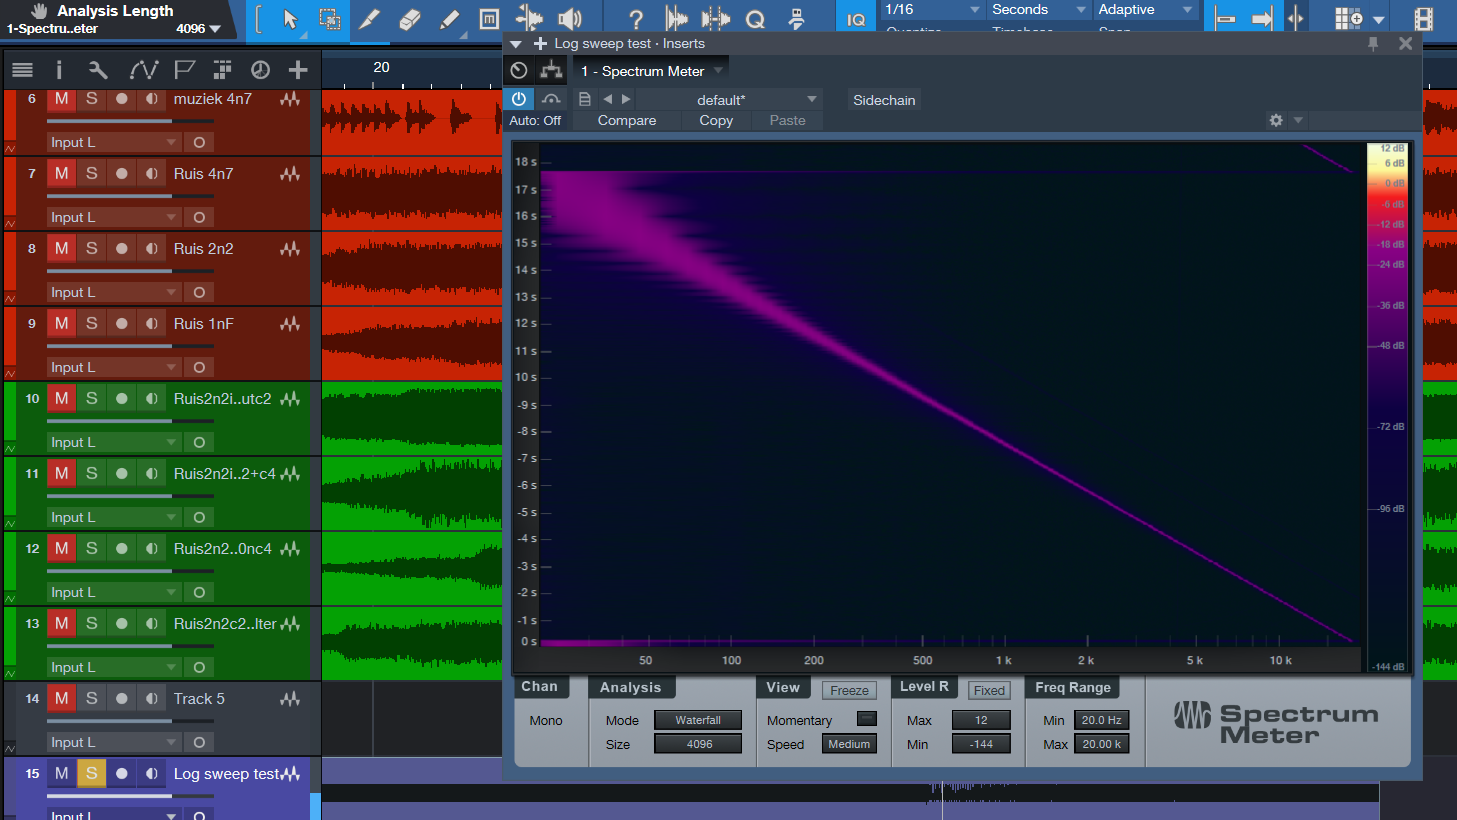
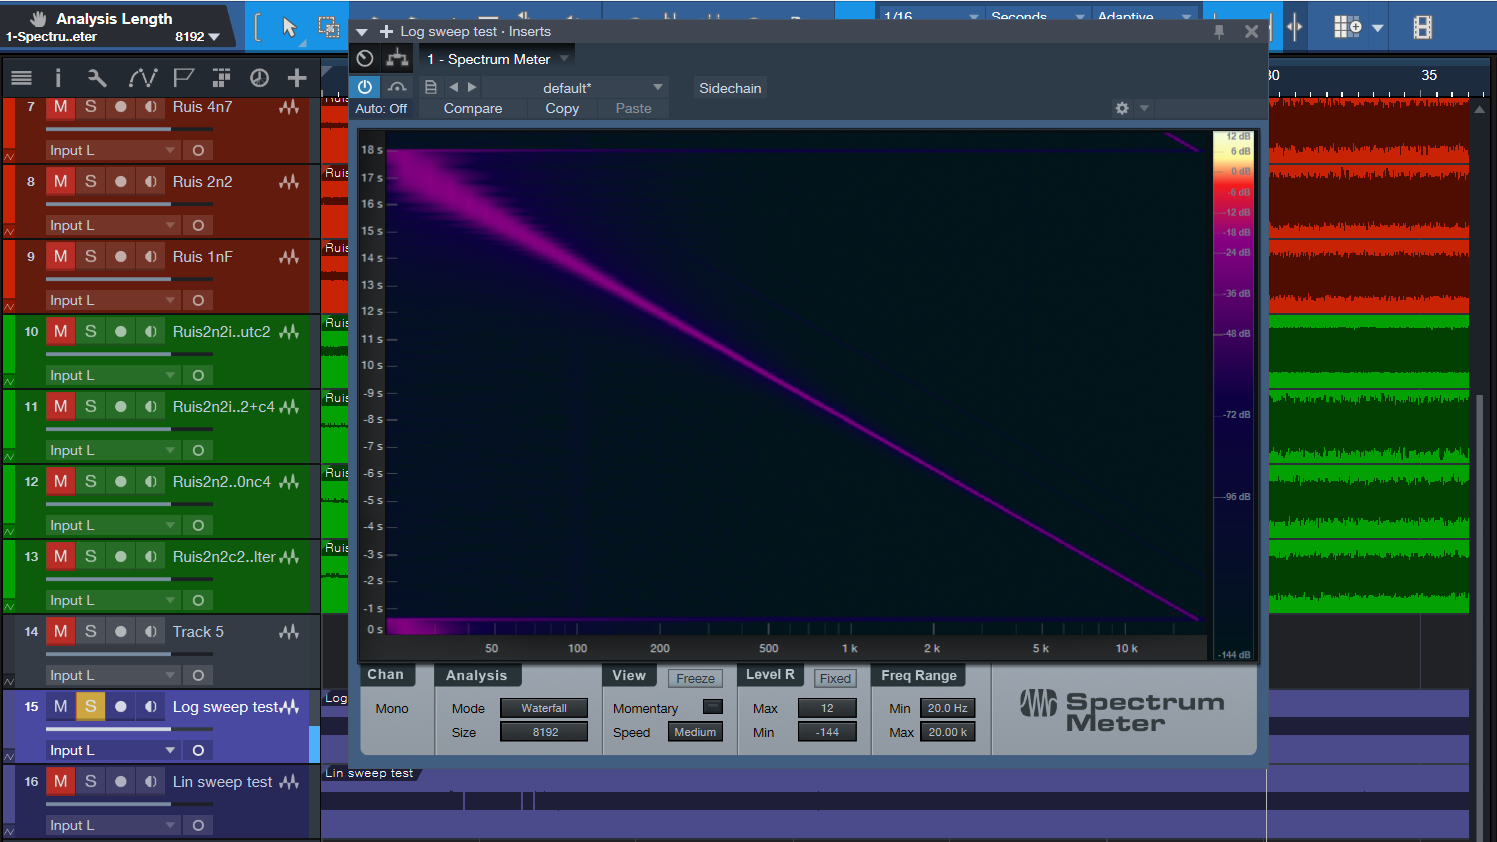
Added research results. Created research report in doc/LOG.md

diff --git a/doc/LOG.md b/doc/LOG.md
@@ -2,20 +2,82 @@
 
 ##### This is a logbook of the Hardware Analyzer project I'm doing for my Creative Systems Design class at the HKU.
 
+***
+
 ## Current Bugs
+
+***
 
 ## Fixed Bugs
 
+***
+
 ## Overview of subjects
+
+#### Markdown
+See all markdown tricks used in this file at [this GitHub page](https://github.com/adam-p/markdown-here/wiki/Markdown-Cheatsheet) or check the raw file.
 
 #### Make
 
+###### Implicit variables
+In the file makevariables.txt you can see the text printed on the command line when typed the following command: `make -p` when in a directory without a Makefile. This shows all the predefined variables make knows. Here is a list of variables that I use often.
+
+| Variable |  Explanation                                           |
+| ---------|--------------------------------------------------------|
+| CXX      | Program for compiling C++ programs; default ‘g++’.     |
+| CC       | Program for compiling C programs; default ‘cc’.        |
+| CXXFLAGS | Extra flags to give to the C++ compiler.               |
+| CFLAGS   | Extra flags to give to the C compiler.                 |
+| CPPFLAGS | Extra flags to give to the C preprocessor and programs that use it (the C and Fortran compilers) |
+| LDLIBS   | Library flags or names given to compilers when they are supposed to invoke the linker, ‘ld’. Non-library linker flags, such as -L, should go in the LDFLAGS variable. |
+| LDFLAGS  | Extra flags to give to compilers when they are supposed to invoke the linker, ‘ld’, such as -L. Libraries (-lfoo) should be added to the LDLIBS variable instead. |
+
+Make has many more of these Implicit rules as it can not only call the c compilers. For example: Fortran, Yacc, Lint, Pascal and many others.
+
 ###### Pattern rules
-https://www.gnu.org/software/make/manual/html_node/Pattern-Rules.html
+Reference: https://www.gnu.org/software/make/manual/html_node/Pattern-Rules.html
+
+Basic rule:
 ~~~
-TODO: write this out.
+target : list of prerequisites (dependencies)
+        recipe
+~~~
+before the recipe you need to put a tab not 8 spaces.
+
+Pattern rule:
+~~~
+%.o : %.cpp
+        $(CXX) -c $(CXXFLAGS) $(CPPFLAGS) $< -o $@
+~~~
+This rule  compiles all .o files (if they are needed) from their corresponding .cpp file. Pattern rules are the updated version of [the old-fashioned suffix rules](https://www.gnu.org/software/make/manual/html_node/Suffix-Rules.html#Suffix-Rules) which looked like this:
+~~~
+.cpp.o :
+        $(CXX) -c $(CXXFLAGS) $(CPPFLAGS) -o $@ $<
 ~~~
 
+###### Automatic variables
+You saw with the Pattern rules you need to use some weird variables like `$@` and `$<`. These are called automatic variables and can only be used in the recipes of pattern rules (and suffix rules). Here is an overview of these variables and what they mean.
+
+| Variable  | Explanation                               |
+|-----------|-------------------------------------------|
+| $@        | The file name of the target of the rule.  |
+| $<        | The name of the first prerequisite.       |
+| $?        | The names of all the prerequisites that are newer than the target, with spaces between them. |
+| $^        | The names of all the prerequisites, with spaces between them. |
+
+This means that on the place of the automatic variable the word described above will be set. For example: the following rule will be called by target main.o
+~~~
+%.o : %.cpp
+        $(CXX) -c $< -o $@
+~~~
+The filled in version will look like this:
+~~~
+main.o : main.cpp
+        g++ -c main.cpp -o main.o
+~~~
+
+###### Make manual
+Make is an amazingly strong program when you get the grasps of it. When you understand the things I explained above you already took a big step in the right direction, but there is still much more to be discovered about Make. So next time you see something you don't understand in a Makefile take the [Make Manual](https://www.gnu.org/software/make/manual/make.html) with you and look it up. Or if you got some more time read the full manual it is worthwhile.
 
 #### Installing programs on Linux
 
@@ -29,6 +91,19 @@ TODO: write this out.
 ./waf
 sudo ./waf install
 ~~~
+
+###### Solve the D-bus error for JACK
+Reference: http://rivendell.tryphon.org/wiki/Debian_6_Installing_JACK2
+
+Check if the real-time priorities are correct:
+~~~
+ulimt -r -l
+~~~
+If you can see "real-time priority (-r) 95" and "max locked memory (kbytes, -l) unlimited" then everything is set correctly. If you see any other values (usually 0 and 64) then you have to:
+~~~
+sudo dpkg-reconfigure -p high jackd2
+~~~
+And reboot after that.
 
 ###### Atom
 I got this from the [Atom Flight-manual](https://flight-manual.atom.io/getting-started/sections/installing-atom/).
@@ -82,8 +157,17 @@ sudo apt-get install spotify-client
 
 #### Raspberry Pi
 
+###### Installing Raspbian
+First of you will need a micro sd and a way of connecting this micro sd to your computer.
+~~~
+Download the newest version of Raspbian from https://www.raspberrypi.org/downloads/raspbian/
+Unzip the file
+Write the image file (.ico) to the micro sd with Win32diskimager or Etcher.
+Raspbian is now installed on the micro sd so you can put it in the Raspberry Pi.
+~~~
+
 ###### Connecting via SSH (Linux)
-I learned that this was a possibility in my Maker skills class from Mark IJzerman. Jochem van Iterson showed me one day when I were trying to figure it out. So I remembered some things about it, but [this video](https://www.youtube.com/watch?v=JJyFLNC2cFM) completely refreshed my memory.
+I learned that this was a possibility in my Maker skills class from Mark IJzerman. Someone showed me one day when I were trying to figure it out. So I remembered some things about it, but [this video](https://www.youtube.com/watch?v=JJyFLNC2cFM) completely refreshed my memory. <br/>
 This method uses a connection between your computer and the Raspberry Pi via an Ethernet cable. When you followed the instructions in the video you can control the Pi from the command line of your (Linux) machine.
 First installation (see [video](https://www.youtube.com/watch?v=JJyFLNC2cFM)):
 ~~~
@@ -97,7 +181,7 @@ Connect to Pi
 cat /var/lib/misc/dnsmasq.leases
 ssh pi@<ip_adres>
 ~~~
-For me its almost everytime: `10.42.0.31`
+For me its almost everytime: `10.42.0.31` <br/>
 Default password of the Pi is: `raspberry`
 
 It's recommended to [change the password](https://www.raspberrypi.org/forums/viewtopic.php?t=193620).
@@ -108,6 +192,28 @@ choose option: Change User Password
 To shutdown the Pi
 ~~~
 sudo shutdown -h now
+~~~
+
+###### Access a USB Stick on Raspberry Pi
+You can't access a USB directly on Raspberry Pi as on other OS. When you connect a USB to the Raspberry Pi you need to do the following:
+~~~
+sudo mkdir /mnt/usb
+sudo mount /dev/sda1 /mnt/usb
+~~~
+After you have done this one time you only have to `mount /dev/sda1 /dev/usb` every time you connect the USB.
+Reach the data on the USB with:
+~~~
+cd /mnt/usb/
+ls
+~~~
+If you like to remove the USB from your Raspberry Pi, you need to do the following:
+~~~
+sudo umount /dev/sda1
+~~~
+
+If this doesn't work your USB isn't probably at sda1 and at another place. To check which USB's are connected type:
+~~~
+sudo fdisk -l
 ~~~
 
 ###### BCM2835 installation
@@ -122,6 +228,30 @@ sudo make check
 sudo make install
 ~~~
 The version can be updated since 1st of May 2018.
+
+###### WiringPi installation (MCP4725)
+I got the info from [this site](https://engineer.john-whittington.co.uk/2015/03/raspberry-pi-dac-mcp4725-with-wiringpi/) which points to [this GitHub repository](https://github.com/tuna-f1sh/wiringPi-mcp4725). This repo let's wiringPi work with the MCP4725 board. <br/>
+For Wiring pi you need to download it from git.drogon.net.
+~~~
+cd
+git clone git://git.drogon.net/wiringPi
+cd ~/WiringPi
+./build
+~~~
+For more tips and special cases see [the site](http://wiringpi.com/download-and-install/)
+
+###### Jack on Raspberry Pi
+~~~
+Yet to be researched. Expected Summer 2018.
+~~~
+
+###### Jack vs BCM2835 vs MCP4725
+Jack an easy to use program, but it doesn't have much support on Windows. The interface of Jack is very easy, especially with the repository of Marc Groenewegen ([jack_module](https://github.com/marcdinkum/jack_module.git)). I haven't figured it out how to use Jack on Raspberry Pi, but I will figure it out soon. <br/>
+I tried the BCM2835 library, because I wanted to make my own AD-DA converter shield. It is easy to install, but the interface isn't very easy. You need some good knowledge about bit math, arrays and SPI. This made it very hard for me to program the things I want. I also created the AD DA converter from Electrosmash, but when I measured the frequency response through the system. I saw I fell off at 5 KHz. This was inevitable with this circuit. So this may be a good system with a Library for the interface and a good AD DA converter.
+After having tried the BCM2835, I tried the MCP4725 DAC. But it was very hard to make this board work. I found a video that explained what to do without WiringPi, but that gave a very weird error and installing WiringPi was a nightmare. It doesn't have great troubleshooting documentation and installing the way they wanted me to, didn't really work. <br/>
+So my conclusion is use JACK with a USB interface, or find a good interface library for the BCM2835 library and a good AD DA circuit.
+
+***
 
 ## Dates
 March 29:
@@ -142,7 +272,7 @@ April 16th:
   - Figured some things out about the implicit and pattern rules of Makefiles and the use for them.
 
 April 17th - 20th:
-  - Still struggling with the makefile and the project structure I have. I'm turning the Internet upside down in the hopes to find a good example or useful tips. It's hard to think of a way to put the object files in a different repository then the source files and keep the dependencies correct.
+  - Still struggling with the Makefile and the project structure I have. I'm turning the Internet upside down in the hopes to find a good example or useful tips. It's hard to think of a way to put the object files in a different directory than the source files whilst keeping the dependencies correct.
 
 April 21st:
   - Because I struggled with the makefile all week, I decided to leave all the object files in the `src/` folder. This way it's still able to compile and keep its dependencies right. I will look later if I'm able to implement the `obj/` folder with correct dependencies, because it should be possible.
@@ -168,7 +298,7 @@ May 1st:
   - I tried installing the BCM2835 library on my Linux machine for development, but I get a weird error. So I will see what will be the easiest way to develop. Either writing in Atom on the Linux machine and committing to git and pulling onto the Raspberry Pi, or writing in either Nano or Vim on the Raspberry Pi itself. When using the second option I will have to start using branches to keep updating the LOG and working on the project.
 
 May 2nd:
-  - I tried installing vim on my Pi, so I thought I should first update everything (which I now know is wrong). So I did `sudo apt-get update` and then `sudo apt-get upgrade`. It updated about 300 apps and after it was done. 3 couldn't be installed because there was no more room on my sd. Therefore there was no more room for even doing `cd`. Because that makes a temporary file of a few bytes. So I came to the conclusion I needed to install a fresh version of Raspbian. `TODO: add info about how to install Raspbian.`
+  - I tried installing vim on my Pi, so I thought I should first update everything (which I now know is wrong). So I did `sudo apt-get update` and then `sudo apt-get upgrade`. It updated about 300 apps and after it was done. 3 couldn't be installed because there was no more room on my sd. Therefore there was no more room for even doing `cd`. Because that makes a temporary file of a few bytes. So I came to the conclusion I needed to install a fresh version of Raspbian. See [here](#Installing Raspbian) how to install Raspbian.
 
 May 4th:
   - Raspbian Lite didn't work very well. It hasn't standard autologin and SSH isn't enabled automaticly. It seemed a lot of work to find out so I just installed the desktop version, which is just a few minutes of work.
@@ -189,7 +319,8 @@ May 17th:
 
 May 18th:
   - Build the ADC for the Raspberry Pi.
-  - I noticed that the sound through the Pi is very muffled. So I started I started calculating the RC filters at the output stage.`TODO: Add info about how I measured the output` I changed the capacitors and that had some improvement, but the sound still  dropped off at 5 KHz. So I think I'll have to change the input capacitors as well.
+  - I noticed that the sound through the Pi is very muffled. So I started measuring the systems frequency response. I put white noise on the input and with the clean.c file from Electrosmash it should send it right through the output without transformation. This way I can measure how the AD and DA converter change the sound when I connect the output back to my computer and record it with my DAW. There I saw that the frequency response dropped off rapidly above 1 KHz. I calculated the RC filter at the output stage and that is a 2 KHz lowpass filter.
+  So I changed some of the capacitors and that had some improvement, but the sound still  dropped off at 5 KHz. So I think I'll have to change the input capacitors as well. See the pictures starting with `Test_DIY_AD-DAC_` for the setup and measuring in `doc/Research`.
 
 May 22nd:
   - Tried changing the input capacitors, but it also hadn't much of an effect. It keeps dropping off at 5 KHz. I looked at the [site of Electrosmash](https://www.electrosmash.com/forum/pedal-pi/206-pedal-pi-circuit-analysis) and found that they did that intensionaly, because of harmonics casued by the pwm signal.
@@ -224,7 +355,7 @@ May 28th:
 
 May 29th:
   - With the feedback from yesterday and tip from Pieter Suurmond in mind, I set a goal for today: get the sweep working with JACK on my Linux computer.
-  - My first problem was to get Jack working on my Linux computer. I installed it, but always gave me a D-Bus error and that was the moment when I started to develop on the BCM2835 library. I solved this with help of [this site](http://rivendell.tryphon.org/wiki/Debian_6_Installing_JACK2) (See <tag to overview>). `TODO add to overview` JACK and QJackctl worked correctly after that.
+  - My first problem was to get Jack working on my Linux computer. I installed it, but always gave me a D-Bus error and that was the moment when I started to develop on the BCM2835 library. I solved this with help of [this site](http://rivendell.tryphon.org/wiki/Debian_6_Installing_JACK2) (See [the overview at the top](#Solve the D-bus error for JACK)). JACK and QJackctl worked correctly after that.
   - Then I added jack_module as a submodule again. This gave me some problems, because I didn't fully remove these from the last time. This gave me some path problems that I didn't know to fix. Because I had no local changes, I decided to remove my local project folder and `git clone` it back. That way all modules were gone, because I had removed them on my other computer, but locally it was still stored on my Linux computer. After that I just `git submodule add` the jack_module library from [Marc's github](https://github.com/marcdinkum/) and everything was allright.
   - I didn't want to edit Marc's project folder, because if Marc was to update his library, I would have to re-edit that. Before I called his Makefile recursivly from my Makefile, but that way it compiles also all his examples that I don't want. So I created a module.mk file in the `inc/` folder and added only the jack_module.cpp/.h and ringbuffer.cpp/.h to my Makefile. This works very well.
   - I edited my main.cpp so Jack worked in it. Only leaving the threads out for now. I later want it all in my IO file. I forgot to add the jack.init() and jack.autoConnect() and wondered why I couldn't hear anything and couldn't see my program in the connect list of QJackctl. So be sure to include everything.
@@ -247,7 +378,17 @@ May 31st:
   - Tried creating a function that would make the sweep logarithmically.
   - I started with the idea that the input would be between 0 and 2Pi and the output would be between 20 Hz and 20 KHz. I started with the basic logarithmic formula: `F(x) = a * g^x`. Where a is the output at zero and g is the growth factor.
   - When I solved it for the values I wanted and tested it in sweep.h, I thought about making it variable. This was very easy, because a is just the lowest value to be tested. For g you need to solve for `g = log(maxvalue/a) / log(2Pi)`. This is extracted out of the basic formula with F(x) = maxvalue and x = 2Pi.
+  - I also checked if the sweep is really logarithmic now. I recorded the sweep into my DAW and with its waterfall spectrum analyzer I saw that it really is logarithmic now. The frequency on the bottom is logarithmic, so if the line is straight then the sweep is also logarithmic. See the pictures `doc/Research/Lin Sweep.png` and `doc/Research/Log Sweep.png`.
 
 June 3rd:
   - Checked if the logarithmic sweep is really logarithmic and looked how the linear sweep looks like. They resemble my expectations.
   - From this point I will make a report on my research on the different subjects I came across for my final grade. After that I will finish this project, since it will still be a useful device to have.
+
+June 4th:
+  - In class we had to give a mockup presentation. This to practice for next week. Here I my teacher Ciska came with a great idea. She said I should set this up as a product, since it doesn't exist on the market yet. Make a mockup and present it next week as a product presentation. I thought this was a great idea, but I didn't want this to be a commercial product, since I got really helped by the open source community, like Electrosmash. So I will work this product further trough until I have a working prototype. Then I will create a product video and look for contributors to help me get it to the masses. I think this will be a great tool for the beginning DSP programmer.
+
+June 7th - 10th:
+  - Clean, comment and document code. Prepare for presentation.
+
+June 11th:
+  - Final presentation.
